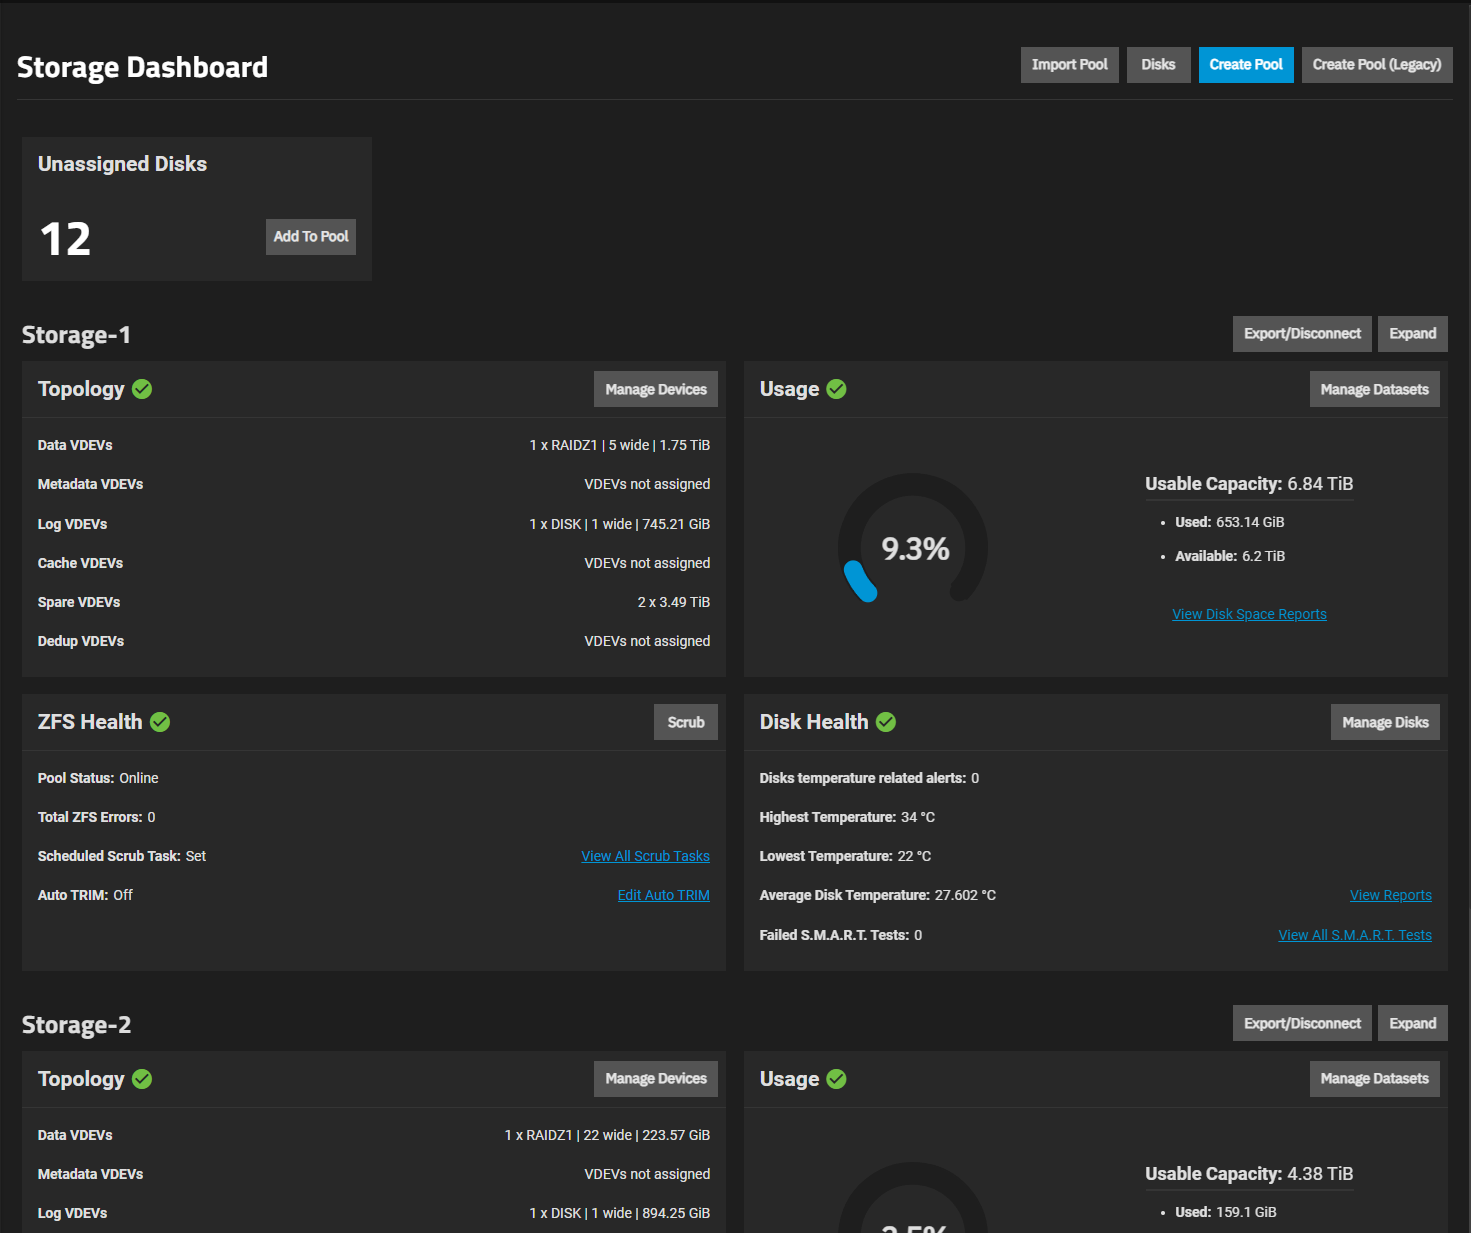
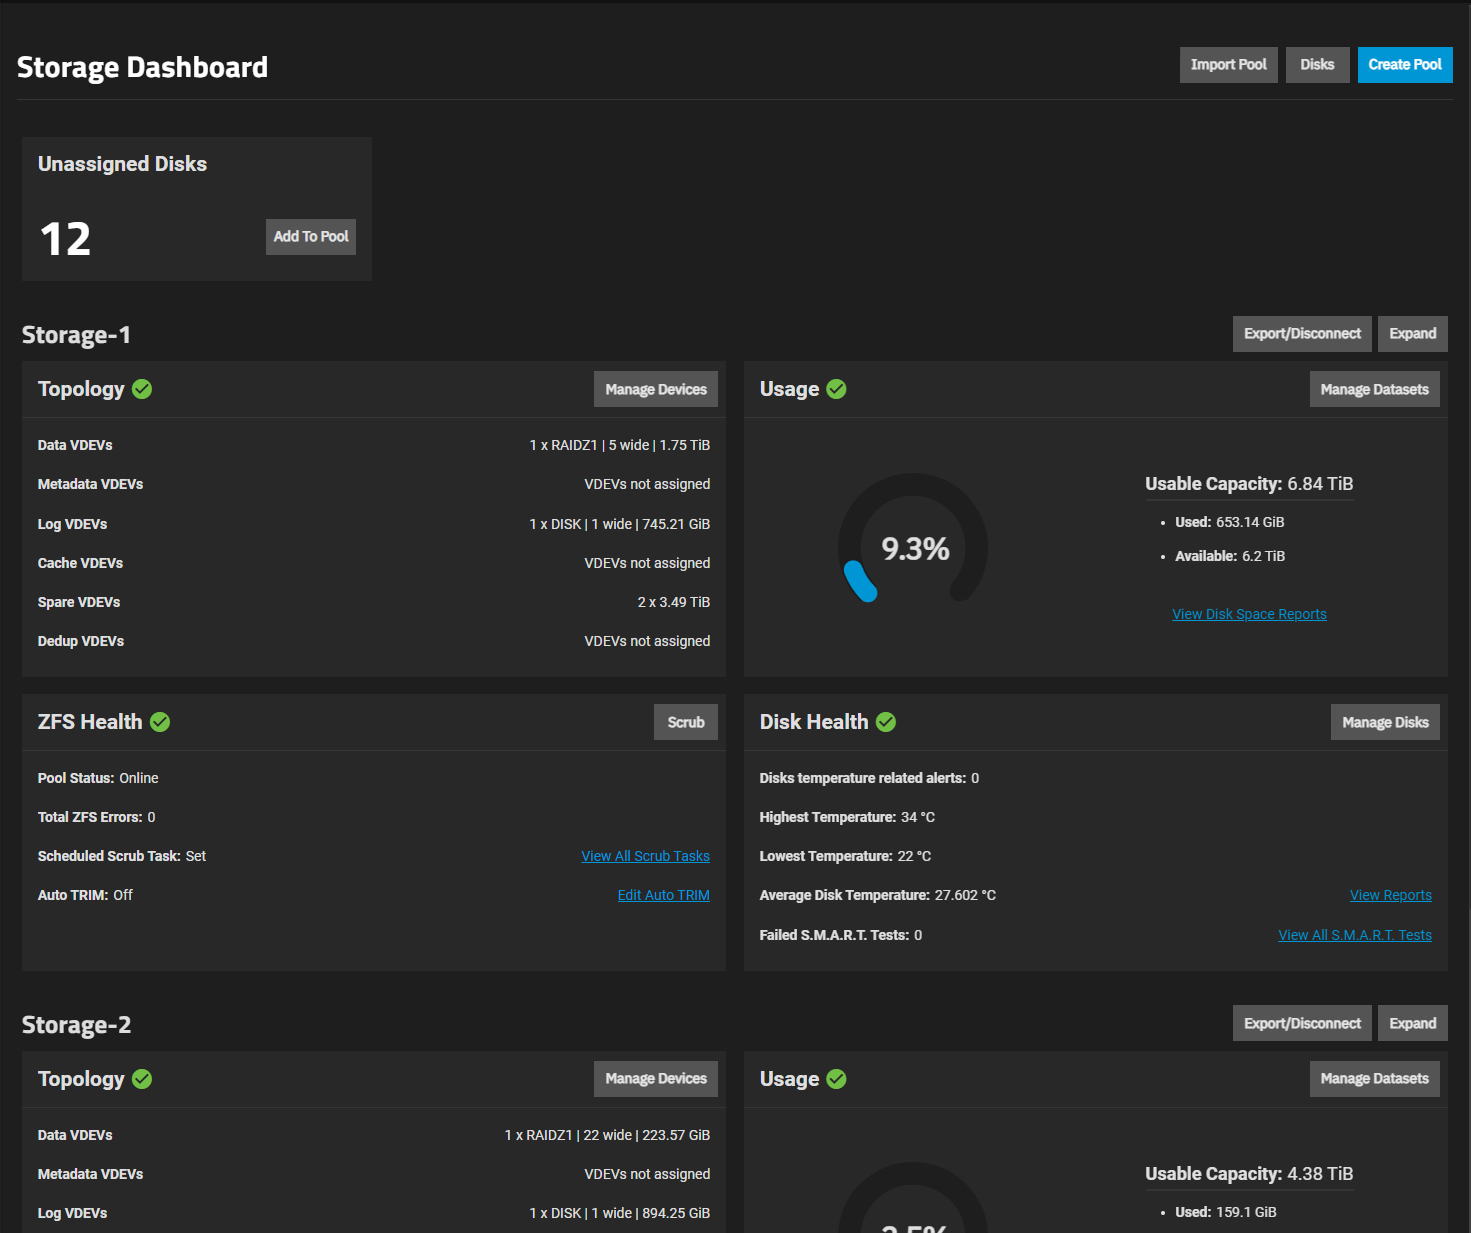
PD-553: Update UI Ref Storage _index.md
Edit two images to match 23.10-RC.1.
First pass to update text to match RC.1
Reorganize content to put trivial widget descriptions inside expands and remove the expand from the Export/Disconnect content.

Changed region(s): [[0.673, 0.0308, 1.0, 0.0925]]

diff --git a/content/SCALEUIReference/Storage/_index.md b/content/SCALEUIReference/Storage/_index.md
@@ -29,8 +29,7 @@ The **Storage Dashboard** has four buttons at the top right of the screen that p
 
 * **Import Pool** opens the **[Import Pool](#import-pool-screen)** screen.
 * **Disks** opens the **[Disks]({{< relref "DisksScreensSCALE.md" >}})** screen. 
-* **Create Pool** opens the **Pool Manager** screen.
-* **Create Pool (New)** opens the **[Pool Creation Wizard]({{< relref "PoolCreateWizardScreens.md" >}})**.
+* **Create Pool** opens the **[Pool Creation Wizard]({{< relref "PoolCreateWizardScreens.md" >}})**.
 
 After adding pools, the dashboard includes five widgets and two more buttons. 
 
@@ -42,152 +41,145 @@ It allows you to either completely remove a pool and delete all the contents of 
 **Expand** opens the **[Expand pool](#expand-dialog)** dialog. Use to expand the selected pool to fit all available disk space.
 
 ## Storage Dashboard Widgets
-After adding a pool, the screen displays five widgets:
+After adding a pool, the screen displays five widgets.
+The **Unassigned Disks** widget remains at the top of the dashboard if the system has disks not added to a pool.
+The other four widgets are a set that displays for each pool created on the system.
 
-* **[Unassigned Disks](#unassigned-disks-widget)** displays the number of disks on the system not added to a pool.
-* **[Topology](#topology-widget)** manages pool virtual devices or VDEVs.
-* **[Usage](#usage-widget)** manages datasets and zvols.
-* **[ZFS Health](#zfs-health-widget)** manages pool health and pool functions like scrub and auto TRIM.
-* **[Disk Health](#disk-health-widget)** manages disks and disk health.
+* {{< expand "Unassigned Disks (Click to expand)" "v" >}}
+  The **Unassigned Disks** widget displays the number of disks available on your system to use in pools. 
+  The disk count includes disks assigned in an exported pool. 
+  If you attempt to use a disk assigned in an exported pool, a warning message displays that prompts you to select a different disk.
+  
+  To see information on each disk on the system, click **Manage Disks** on the **[Disk health](#disk-health-widget)** widget.
+  
+  {{< trueimage src="/images/SCALE/22.12/StorageDashboardUnassignedDisksWidget.png" alt="Unassigned Disks Widget" id="Unassigned Disks Widget" >}}
+  
+  {{< /expand >}}
+  
+  * {{< expand "Add To Pool window (Click to expand)" "v" >}}
 
-The **[Unassigned Disks](#unassigned-disks-widget)** widget remains at the top of the dashboard if the system has disks not added to a pool. 
-The other four widgets are a set that displays for each pool created on the system. 
+  The **Unassigned Disks** widget **Add to Pool** window displays the number of unassigned disks and provides the option to assign disks to a new or existing pool.
+
+  The **Unassigned Disks** area displays the number of unassigned disks, the size and type of disks, and indicates any disks associated with an previous pool.
+
+  {{< trueimage src="/images/SCALE/23.10/AddToPoolWindow.png" alt="Add To Pool" id="Add To Pool New Pool" >}}
+
+  The **Add Disks To** window has three radio buttons:
+  
+  * **New Pool** opens the **Create Pool > Pool Manager** screen.
+  * **Existing Pool** adds the **Existing Pool** dropdown list with available options.
+  * **Existing Pool (Legacy)** adds the **Existing Pool** dropdown list with available options.
+
+  {{< trueimage src="/images/SCALE/23.10/AddToPoolExistingPool.png" alt="Add To Existing Pool" id="Add To Existing Pool" >}}
+
+  {{< trueimage src="/images/SCALE/23.10/AddToPoolExistingPoolLegacy.png" alt="Add To Existing Pool (Legacy)" id="Add To Existing Pool (Legacy)" >}}
+
+  After selecting **Existing Pool**, the **Add Disks** opens the **Pool Manager** screen if the existing pool was created with the **Pool Manager**.
+  If the pool was created with the **Pool Creation Wizard**, **Add Disks** opens the **Pool Creation Wizard**.
+  If you select **New Pool**, **Add Disks** opens the **Pool Creation Wizard** screen.
+  {{< /expand >}}
+
+* {{< expand "Topology (Click to expand)" "v" >}}
+
+  The **Topology** widget provides information on the VDEVs configured on the system and the status of the pool. 
+  
+  The widget lists each VDEV type (data, metadata, log, cache, spare, and dedup). 
+  A **Data VDEV** includes the data type (stripe, mirror, RAID, or mixed configuration), the number of disks (**wide**), and the storage capacity of that VDEV.
+  
+  {{< trueimage src="/images/SCALE/22.12/StorageDashboardTopologyWidget.png" alt="Topology Widget" id="Topology Widget" >}}
+  
+  **Manage Devices** opens the **[Devices]({{< relref "DevicesScreensSCALE.md" >}})** screen where you can add or manage existing VDEVs.
+  {{< /expand >}}
+
+* {{< expand "Usage (Click to expand)" "v" >}}
+  The **Usage** widget provides information on the space datasets use and the status of pool usage.
+
+  The widget includes a color-coded donut chart that illustrates the percentage of space the pool uses.
+  Blue indicates space usage in the 0-80% range and red indicates anything above 80%.
+  A warning displays below the donut graph when usage exceeds 80%.
+
+  **Usable Capacity** details pool space statistics by **Used**, **Available**, and **Used by Snapshots**.
+
+  {{< trueimage src="/images/SCALE/22.12/StorageDashboardUsageWidget.png" alt="Usage Widget" id="Usage Widget" >}}
+
+  **View Disk Space Reports** opens the pool usage reports for the selected pool.
+
+  {{< hint type=note >}}
+  Large (>1 petabyte) systems could report storage numbers inaccurately.
+  Storage configurations with more than 9,007,199,254,740,992 bytes round the last 4 digits.
+  For example, a system with 18,446,744,073,709,551,615 bytes reports the number as 18,446,744,073,709,552,000 bytes.
+  {{< /hint >}}
+
+  **Manage Datasets** opens the **[Datasets]({{< relref "DatasetsScreensScale.md" >}})** screen.
+  {{< /expand >}}
+
+* {{< expand "ZFS Health (Click to expand)" "v" >}}  
+  The **ZFS Health** widget provides information on the health of the pool. 
+  
+  Widget details include:
+  * **Pool Status** as online or offline
+  * **Total ZFS Errors** count of the number of ZFS errors
+  * **Scheduled Scrub Task** as set or not
+  * **Auto TRIM** as on or off
+  
+  {{< trueimage src="/images/SCALE/22.12/StorageDashboardZFSHealthWidget.png" alt="ZFS Health Widget" id="ZFS Health Widget" >}}
+  
+  **View all Scrub Tasks** opens the **[Data Protections > Scrub Tasks]({{< relref "ScrubTasksScreensSCALE.md" >}})** details screen. 
+  This lists all scheduled scrub tasks and allows you to add a new task or edit an existing task.
+  {{< /expand >}}
+  
+  * {{< expand "Scrub Pool Dialog (Click to expand)" "v" >}}
+  Clicking the **Scrub** button from the **ZFS Health** widget initiates a check on pool data integrity.
+  The **Scrub Pool** dialog allows you to perform an unscheduled scrub task.
+  If TrueNAS detects problems during the scrub, it either corrects them automatically or generates an [alert]({{< relref "AlertSettingsScreen.md" >}}) in the web interface.
+
+  By default, TrueNAS automatically checks every pool to verify it is on a reoccurring scrub schedule.
+
+  To schedule a single or a regular pool scrub operation, click **View All Scrub Tasks** to open the **Data Protections > Scrub Tasks** details screen and add or manage scrub tasks configured on your system.
+
+  {{< trueimage src="/images/SCALE/22.12/ScrubPoolDialog.png" alt="Scrub Pool Dialog" id="Scrub Pool Dialog" >}}
+
+  **Confirm** activates the **Start Scrub** button.
+  {{< /expand >}}
+
+  * {{< expand "Auto TRIM Dialog (Click to expand)" "v" >}}
+
+  The **ZFS Health** widget **Edit Auto TRIM** option opens a dialog to set **Auto TRIM**.
+
+  {{< trueimage src="/images/SCALE/22.12/PoolOptionsAuotTRIM.png" alt="Pool Option Auto TRIM" id="Pool Option Auto TRIM" >}}
+
+  When enabled, **Auto TRIM** allows TrueNAS to periodically review data blocks and identify which empty blocks of obsolete blocks it can delete.
+  Leave unselected to incorporate day block overwrites when a device write is started (default).
+  Select **Confirm** to activate **Save**.
+
+  For more details about TRIM in ZFS, see the `autotrim` property description in [zpool.8](https://zfsonlinux.org/manpages/0.8.1/man8/zpool.8.html).
+  {{< /expand >}}
+
+* {{< expand "Disk Health (Click to expand)" "v" >}}
+  The **Disk Health** widget provides information on the health of the disks in a pool.
+
+  The details on the widget include the non-dismissed disk temperature alerts for highest, lowest, and average temperature, and failed S.M.A.R.T. tests.
+
+  {{< trueimage src="/images/SCALE/22.12/StorageDashboardDiskHealthWidget.png" alt="Disk Health Widget" id="Disk Health Widget" >}}
+
+  **Manage Disks** opens the **Storage > [Disk]({{< relref "DisksScreensSCALE.md" >}})** screen.
+
+  **View Reports** opens the **Report** screen for the disks in the selected pool.
+
+  **View all S.M.A.R.T. Tests** opens the **Data Protection > S.M.A.R.T. Tests** screen.
+  {{< /expand >}}
 
 Each set of pool widgets provides access to screens for disks, datasets, VDEVs, snapshots, quotas, and pool ZFS functions for the pool. 
-For example, **Manage Devices** on the **[Topology](#topology-widget)** widget opens the **Devices** screen with the VDEVs configured for only that pool.
+For example, **Manage Devices** on the **Topology** widget opens the **Devices** screen with the VDEVs configured for only that pool.
 
 ### Pool Status
+
 Each widget in the set of four pool widgets includes a color-coded icon just to the right of the header. 
 This icon indicates the status of the pool as healthy (green checkmark), offline (orange triangle), or in a warning state (purple warning sign). 
 
 {{< trueimage src="/images/SCALE/22.12/StoragePoolWidgetsDegradedState.png" alt="Pool Status Indications" id="Pool Status Indications" >}}
 
-This same information displays on both the **Storage** widget and a pool widget you can add to the **Dashboard**. 
-
-### Unassigned Disks Widget
-The **Unassigned Disks** widget displays the number of disks available on your system to use in pools. 
-The disk count includes disks assigned in an exported pool. 
-If you attempt to use a disk assigned in an exported pool, a warning message displays that prompts you to select a different disk.
-
-{{< expand "Click Here for More Information" "v" >}}
-To see information on each disk on the system, click **Manage Disks** on the **[Disk health](#disk-health-widget)** widget.
-
-{{< trueimage src="/images/SCALE/22.12/StorageDashboardUnassignedDisksWidget.png" alt="Unassigned Disks Widget" id="Unassigned Disks Widget" >}}
-
-**Add To Pool** opens the **[Add to Pool](#add-to-pool-window)** window. 
-{{< /expand >}}
-
-#### Add To Pool Window
-The **Add to Pool** window displays the number of unassigned disks and provides the option to assign disks to a new or existing pool. 
-
-{{< expand "Click Here for More Information" "v" >}}
-The **Unassigned Disks** area displays the number of unassigned disks, the size and type of disks, and indicates any disks associated with an previous pool.
-
-{{< trueimage src="/images/SCALE/23.10/AddToPoolWindow.png" alt="Add To Pool" id="Add To Pool New Pool" >}}
-
-The **Add Disks To** window has three radio buttons:
-
-* **New Pool** opens the **Create Pool > Pool Manager** screen. 
-* **Existing Pool** adds the **Existing Pool** dropdown list with available options.
-* **Existing Pool (Legacy)** adds the **Existing Pool** dropdown list with available options.
-   
-{{< trueimage src="/images/SCALE/23.10/AddToPoolExistingPool.png" alt="Add To Existing Pool" id="Add To Existing Pool" >}}
-   
-{{< trueimage src="/images/SCALE/23.10/AddToPoolExistingPoolLegacy.png" alt="Add To Existing Pool (Legacy)" id="Add To Existing Pool (Legacy)" >}}
-
-After selecting **Existing Pool**, the **Add Disks** opens the **Pool Manager** screen if the existing pool was created with the **Pool Manager**. 
-If the pool was created with the **Pool Creation Wizard**, **Add Disks** opens the **Pool Creation Wizard**.
-If you select **New Pool**, **Add Disks** opens the **Pool Creation Wizard** screen. 
-{{< /expand >}}
-
-### Topology Widget
-The **Topology** widget provides information on the VDEVs configured on the system and the status of the pool. 
-{{< expand "Click Here for More Information" "v" >}}
-The widget lists each VDEV type (data, metadata, log, cache, spare, and dedup). 
-A **Data VDEV** includes the data type (stripe, mirror, RAID, or mixed configuration), the number of disks (**wide**), and the storage capacity of that VDEV.
-
-{{< trueimage src="/images/SCALE/22.12/StorageDashboardTopologyWidget.png" alt="Topology Widget" id="Topology Widget" >}}
-
-**Manage Devices** opens the **[Devices]({{< relref "DevicesScreensSCALE.md" >}})** screen where you can add or manage existing VDEVs.
-{{< /expand >}}
-### Usage Widget
-The **Usage** widget provides information on the space datasets use and the status of pool usage. 
-{{< expand "Click Here for More Information" "v" >}}
-The widget includes a color-coded donut chart that illustrates the percentage of space the pool uses. 
-Blue indicates space usage in the 0-80% range and red indicates anything above 80%. 
-A warning displays below the donut graph when usage exceeds 80%. 
-
-**Usable Capacity** details pool space statistics by **Used**, **Available**, and **Used by Snapshots**. 
-
-{{< trueimage src="/images/SCALE/22.12/StorageDashboardUsageWidget.png" alt="Usage Widget" id="Usage Widget" >}}
-
-**View Disk Space Reports** opens the pool usage reports for the selected pool.
-
-{{< hint type=note >}}
-Large petabyte systems could report storage numbers inaccurately. 
-Storage configurations with more than 9,007,199,254,740,992 bytes round the last 4 digits. 
-For example, a system with 18,446,744,073,709,551,615 bytes reports the number as 18,446,744,073,709,552,000 bytes.
-{{< /hint >}}
-
-**Manage Datasets** opens the **[Datasets]({{< relref "DatasetsScreensScale.md" >}})** screen. 
-{{< /expand >}}
-
-### ZFS Health Widget
-The **ZFS Health** widget provides information on the health of the pool. 
-{{< expand "Click Here for More Information" "v" >}}
-Widget details include:
-* **Pool Status** as online or offline
-* **Total ZFS Errors** count of the number of ZFS errors
-* **Scheduled Scrub Task** as set or not
-* **Auto TRIM** as on or off
-
-{{< trueimage src="/images/SCALE/22.12/StorageDashboardZFSHealthWidget.png" alt="ZFS Health Widget" id="ZFS Health Widget" >}}
-
-**View all Scrub Tasks** opens the **[Data Protections > Scrub Tasks]({{< relref "ScrubTasksScreensSCALE.md" >}})** details screen. 
-This lists all scheduled scrub tasks and allows you to add a new task or edit an existing task.
-
-**Scrub** opens the **[Scrub Pool](#scrub-dialog)** dialog. 
-
-**[Edit Auto TRIM](#auto-trim-dialog)** opens the dialog that allows you to set Auto TRIM on or off.
-{{< /expand >}}
-
-#### Scrub Pool Dialog
-**Scrub Pool** initiates a check on pool data integrity. 
-The **Scrub Pool** dialog allows you to perform an unscheduled scrub task. 
-If TrueNAS detects problems during the scrub, it either corrects them automatically or generates an [alert]({{< relref "/SCALEUIReference/TopToolbar/Alerts/AlertSettingsScreen.md" >}}) in the web interface.
-
-By default, TrueNAS automatically checks every pool to verify it is on a reoccurring scrub schedule.
-
-To schedule a single or a regular pool scrub operation, click **View All Scrub Tasks** to open the **Data Protections > Scrub Tasks** details screen where you can add or manage scrub tasks configured on your system.
-
-{{< trueimage src="/images/SCALE/22.12/ScrubPoolDialog.png" alt="Scrub Pool Dialog" id="Scrub Pool Dialog" >}}
-
-**Confirm** activates the **Start Scrub** button.
-
-#### Auto TRIM Dialog
-**Edit Auto TRIM** opens a dialog that allows you to set auto TRIM.
-
-{{< trueimage src="/images/SCALE/22.12/PoolOptionsAuotTRIM.png" alt="Pool Option Auto TRIM" id="Pool Option Auto TRIM" >}}
-
-When enabled, Auto TRIM allows TrueNAS to periodically review data blocks and identify which empty blocks of obsolete blocks it can delete. 
-Leave unselected to incorporate day block overwrites when a device write is started (default).
-Select **Confirm** to activate **Save**.
-
-For more details about TRIM in ZFS, see the `autotrim` property description in [zpool.8](https://zfsonlinux.org/manpages/0.8.1/man8/zpool.8.html).
-
-### Disk Health Widget
-The **Disk Health** widget provides information on the health of the disks in a pool. 
-{{< expand "Click Here for More Information" "v" >}}
-The details on the widget include the non-dismissed disk temperature alerts for highest, lowest, and average temperature, and failed S.M.A.R.T. tests.
-
-{{< trueimage src="/images/SCALE/22.12/StorageDashboardDiskHealthWidget.png" alt="Disk Health Widget" id="Disk Health Widget" >}}
-
-**Manage Disks** opens the **Storage > [Disk]({{< relref "DisksScreensSCALE.md" >}})** screen.
-
-**View Reports** opens the **Report** screen for the disks in the selected pool.
-
-**View all S.M.A.R.T. Tests** opens the **Data Protection > S.M.A.R.T. Tests** screen.
-{{< /expand >}}
+This same information displays on both the **Storage** widget and a pool widget you can add to the **Dashboard**.
 
 ## Import Pool Screen
 
@@ -202,7 +194,7 @@ Import also reconnects pools after users reinstall or upgrade their TrueNAS syst
 
 ## Export/Disconnect Window
 **Export/Disconnect** opens the **Export/disconnect pool: *poolname*** window that allows users to export, disconnect, or delete a pool. 
-{{< expand "Click Here for More Information" "v" >}}
+
 The **Export/disconnect pool** window includes a warning that states data becomes unavailable after an export and that selecting **Destroy Data on this pool** destroys data on the pool disks. 
 
 {{< hint type=important >}} 
@@ -227,7 +219,6 @@ If you select a disk used by an exported pool to use in a new pool, the system d
 
 **Export/Disconnect** executes the process and begins the pool export or disconnect. 
 A status window displays with progress. When complete, a final dialog displays stating the export/disconnect completed successfully.
-{{< /expand >}}
 
 ## Expand Dialog
 Select **Expand Pool** to increase the pool size to match all available disk space. 
@@ -250,13 +241,8 @@ It is not necessary to stop any sharing services to upgrade the pool.
 However, it is best to upgrade when the pool is not in heavy use.
 The upgrade process suspends I/O for a short period, but is nearly instantaneous on a quiet pool.
 
-## Contents
+## Section Contents
 
 {{< children depth="2" description="true" >}}
 
-{{< taglist tag="scalepools" limit="10" >}}
-{{< taglist tag="scalevdevs" limit="10" title="Related VDEV Articles" >}}
-{{< taglist tag="scalescrub" limit="10" title="Related Scrub Articles" >}}
 {{< taglist tag="scalestorage" limit="10" title="Related Storage Articles" >}}
-
-
